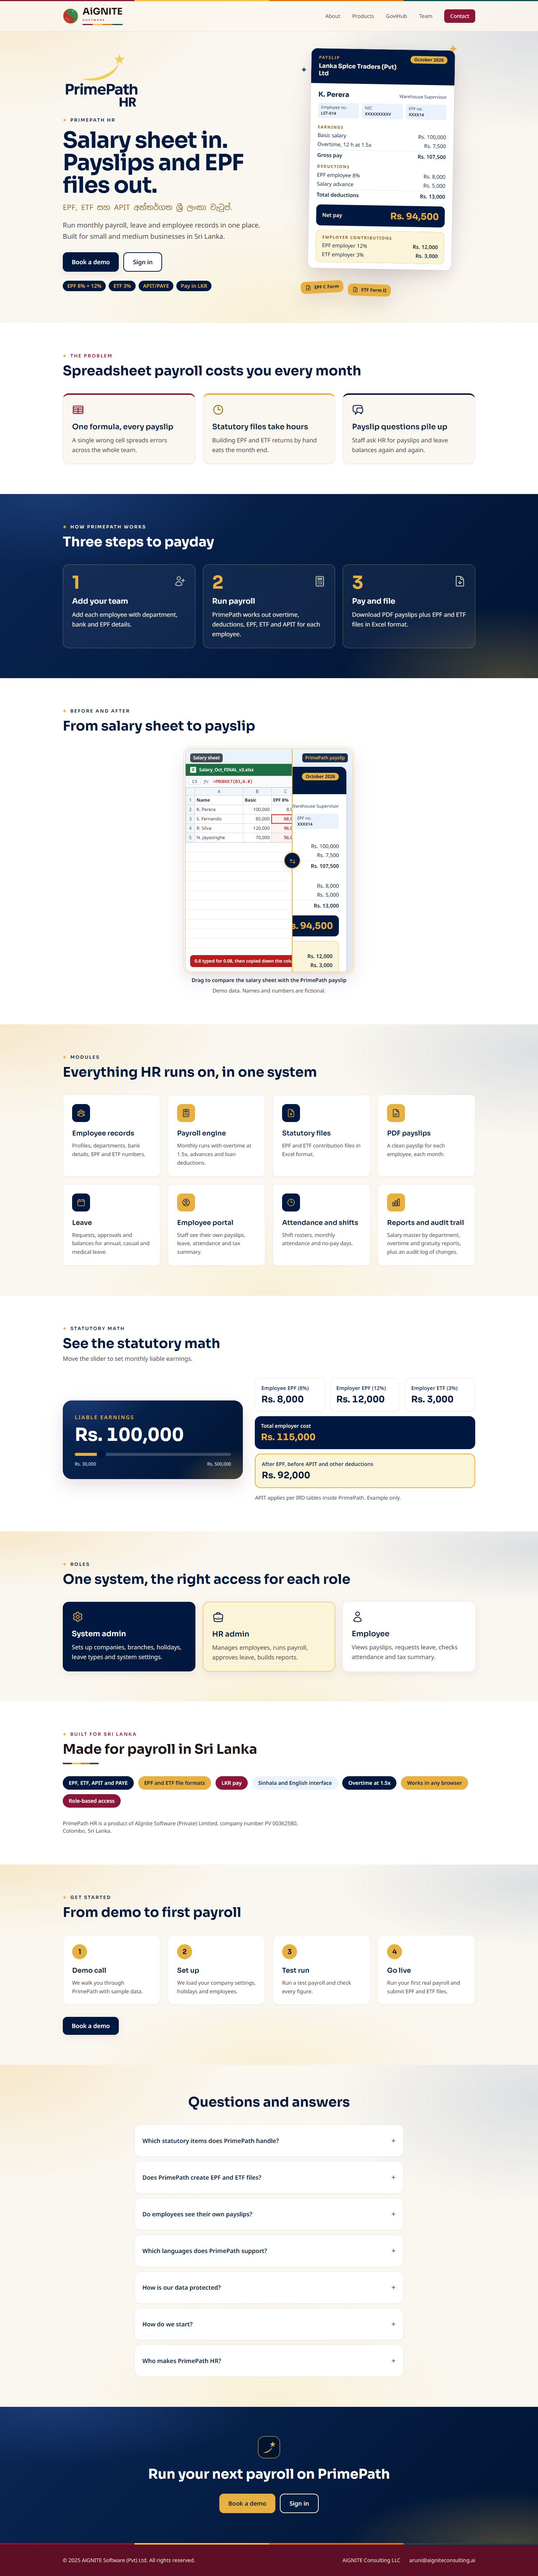
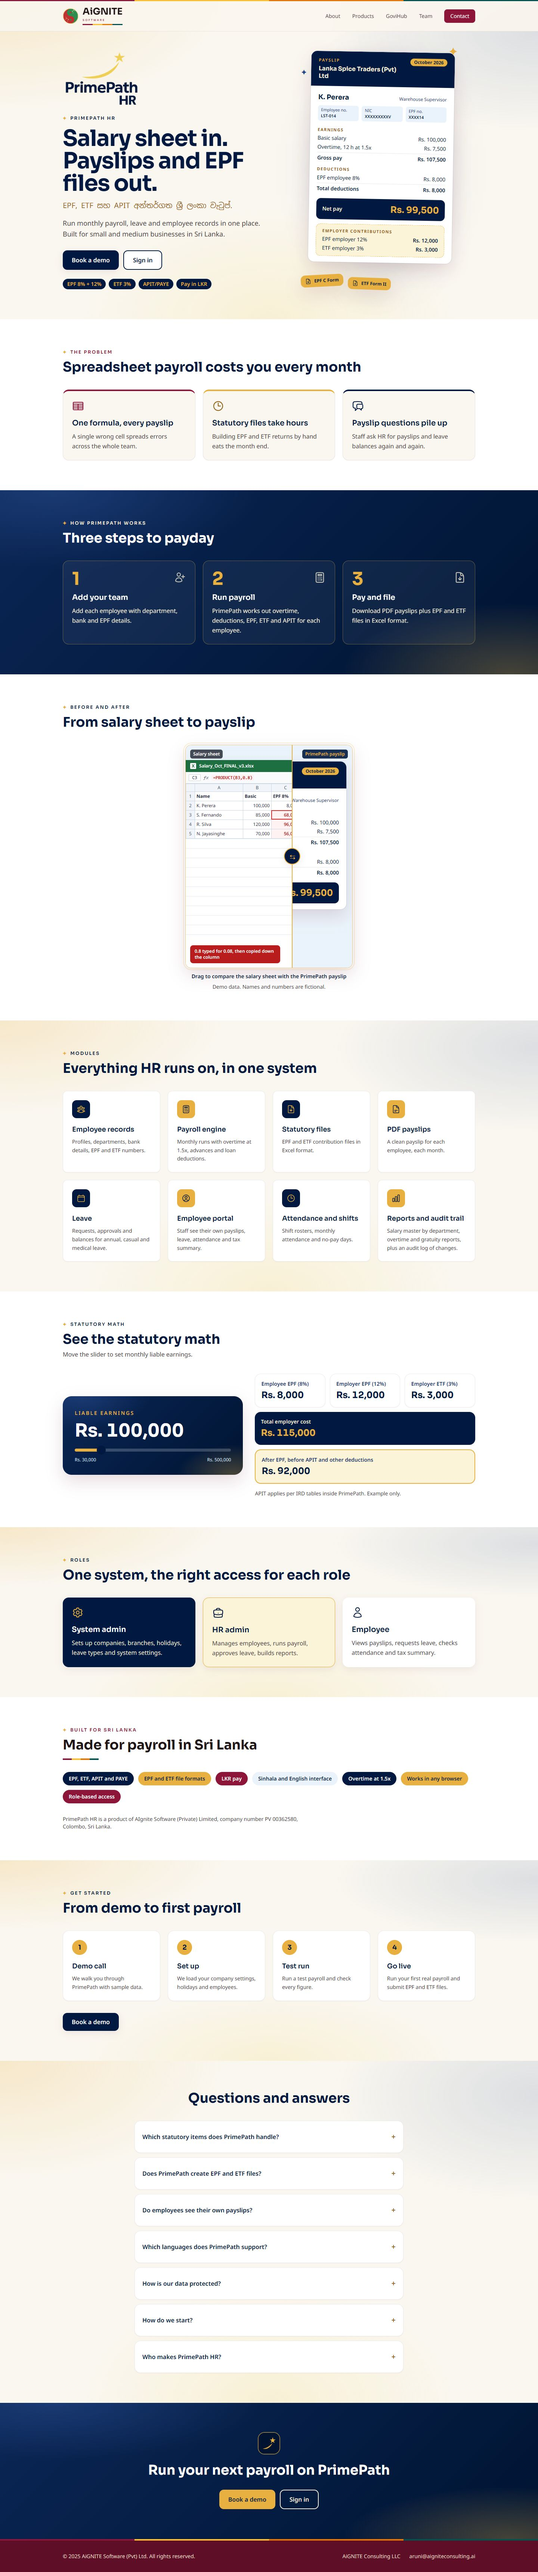
Apply PrimePath review fixes: payslip fits the compare, matched numbers
- Compact payslip and a taller phone frame, so net pay shows in the
  compare slider at 360 px
- Payslip net pay matches the salary sheet row (99,500), OG card redone
- Sheet note stays readable at the slider start
- Calculator results announced to screen readers, fill uses --pp-accent
- Compare slider props require a photo pair or a mock pair

diff --git a/src/components/primepath/PayslipCard.tsx b/src/components/primepath/PayslipCard.tsx
@@ -1,7 +1,8 @@
 import { payslip, rs } from "@/app/products/primepath/content";
 
 // Coded demo payslip (HTML and CSS, not an image). Used in the hero, the compare slider and the OG card.
-export default function PayslipCard({ className = "" }: { className?: string }) {
+// compact drops the ID fields and the employer block so net pay fits the compare frame on phones.
+export default function PayslipCard({ className = "", compact = false }: { className?: string; compact?: boolean }) {
   const gross = payslip.earnings.reduce((s, e) => s + e.amount, 0);
   const totalDeductions = payslip.deductions.reduce((s, d) => s + d.amount, 0);
   const net = gross - totalDeductions;
@@ -21,14 +22,16 @@ export default function PayslipCard({ className = "" }: { className?: string }) 
           <p className="font-heading text-lg font-bold">{payslip.employee}</p>
           <p className="text-xs text-pp-navy-600">{payslip.designation}</p>
         </div>
-        <dl className="mt-2 grid grid-cols-3 gap-2 text-[11px]">
-          {payslip.fields.map((f) => (
-            <div key={f.label} className="rounded-md bg-pp-navy-50 px-2 py-1">
-              <dt className="text-pp-navy-600">{f.label}</dt>
-              <dd className="font-semibold tabular-nums">{f.value}</dd>
-            </div>
-          ))}
-        </dl>
+        {!compact && (
+          <dl className="mt-2 grid grid-cols-3 gap-2 text-[11px]">
+            {payslip.fields.map((f) => (
+              <div key={f.label} className="rounded-md bg-pp-navy-50 px-2 py-1">
+                <dt className="text-pp-navy-600">{f.label}</dt>
+                <dd className="font-semibold tabular-nums">{f.value}</dd>
+              </div>
+            ))}
+          </dl>
+        )}
 
         <p className="mt-4 text-[11px] font-bold uppercase tracking-[0.14em] text-pp-accent-deep">{payslip.earningsTitle}</p>
         <ul className="mt-1 space-y-1 text-sm">
@@ -63,17 +66,19 @@ export default function PayslipCard({ className = "" }: { className?: string }) 
           <span className="font-heading text-2xl font-bold tabular-nums text-pp-accent">{rs(net)}</span>
         </div>
 
-        <div className="mt-3 rounded-xl border border-dashed border-pp-accent bg-pp-accent-soft px-4 py-2.5">
-          <p className="text-[11px] font-bold uppercase tracking-[0.14em] text-pp-accent-deep">{payslip.employerTitle}</p>
-          <ul className="mt-1 space-y-1 text-sm">
-            {payslip.employer.map((e) => (
-              <li key={e.label} className="flex justify-between gap-3">
-                <span>{e.label}</span>
-                <span className="font-semibold tabular-nums">{rs(e.amount)}</span>
-              </li>
-            ))}
-          </ul>
-        </div>
+        {!compact && (
+          <div className="mt-3 rounded-xl border border-dashed border-pp-accent bg-pp-accent-soft px-4 py-2.5">
+            <p className="text-[11px] font-bold uppercase tracking-[0.14em] text-pp-accent-deep">{payslip.employerTitle}</p>
+            <ul className="mt-1 space-y-1 text-sm">
+              {payslip.employer.map((e) => (
+                <li key={e.label} className="flex justify-between gap-3">
+                  <span>{e.label}</span>
+                  <span className="font-semibold tabular-nums">{rs(e.amount)}</span>
+                </li>
+              ))}
+            </ul>
+          </div>
+        )}
       </div>
     </div>
   );

diff --git a/src/components/primepath/StatutoryCalculator.tsx b/src/components/primepath/StatutoryCalculator.tsx
@@ -27,7 +27,7 @@ export default function StatutoryCalculator() {
           value={earnings}
           onChange={(e) => setEarnings(Number(e.target.value))}
           aria-valuetext={rs(earnings)}
-          style={{ background: `linear-gradient(90deg, #E7B041 ${fill}%, rgb(255 255 255 / 0.2) ${fill}%)` }}
+          style={{ background: `linear-gradient(90deg, var(--pp-accent) ${fill}%, rgb(255 255 255 / 0.2) ${fill}%)` }}
           className="mt-6 h-2 w-full cursor-pointer appearance-none rounded-full accent-pp-accent focus:outline-none focus-visible:ring-4 focus-visible:ring-pp-accent/60 [&::-moz-range-thumb]:h-6 [&::-moz-range-thumb]:w-6 [&::-moz-range-thumb]:rounded-full [&::-moz-range-thumb]:border-4 [&::-moz-range-thumb]:border-pp-accent [&::-moz-range-thumb]:bg-pp-primary [&::-webkit-slider-thumb]:h-6 [&::-webkit-slider-thumb]:w-6 [&::-webkit-slider-thumb]:appearance-none [&::-webkit-slider-thumb]:rounded-full [&::-webkit-slider-thumb]:border-4 [&::-webkit-slider-thumb]:border-pp-accent [&::-webkit-slider-thumb]:bg-pp-primary"
         />
         <div className="mt-2 flex justify-between text-xs text-pp-navy-100">
@@ -64,6 +64,10 @@ export default function StatutoryCalculator() {
           })}
         </dl>
         <p className="mt-4 text-sm text-text-muted">{calculator.note}</p>
+        {/* Screen readers hear the five results after each slider move. */}
+        <p aria-live="polite" className="sr-only">
+          {calculator.outputs.map((o) => `${o.label}: ${rs(earnings * o.rate)}`).join(". ")}
+        </p>
       </div>
     </div>
   );

diff --git a/src/app/products/primepath/page.tsx b/src/app/products/primepath/page.tsx
@@ -308,9 +308,9 @@ export default function PrimePathPage() {
                   </div>
                 }
                 afterNode={
-                  <div role="img" aria-label={compare.afterAlt} className="h-full bg-pp-navy-50 px-4 pb-4 pt-12">
+                  <div role="img" aria-label={compare.afterAlt} className="h-full bg-pp-navy-50 px-4 pb-4 pt-11">
                     <div aria-hidden>
-                      <PayslipCard className="shadow-lk-2" />
+                      <PayslipCard compact className="shadow-lk-2" />
                     </div>
                   </div>
                 }
@@ -318,7 +318,7 @@ export default function PrimePathPage() {
                 afterLabel={compare.afterLabel}
                 sliderLabel={compare.sliderLabel}
                 theme={compareTheme}
-                aspect="aspect-[4/5] sm:aspect-[3/4]"
+                aspect="aspect-[3/5] sm:aspect-[3/4]"
                 initial={64}
               />
               <p className="mt-2 text-center text-sm text-text-muted">{compare.caption}</p>

diff --git a/src/components/drapestudio/BeforeAfter.tsx b/src/components/drapestudio/BeforeAfter.tsx
@@ -21,12 +21,12 @@ const dsTheme: CompareTheme = {
   caption: "text-ds-emerald",
 };
 
-type Props = {
-  // Photos (DrapeStudio) or coded mocks (beforeNode / afterNode).
-  before?: Shot;
-  after?: Shot;
-  beforeNode?: ReactNode;
-  afterNode?: ReactNode;
+// Either a photo pair (DrapeStudio) or a pair of coded mocks, never neither.
+type Sides =
+  | { before: Shot; after: Shot; beforeNode?: never; afterNode?: never }
+  | { beforeNode: ReactNode; afterNode: ReactNode; before?: never; after?: never };
+
+type Props = Sides & {
   beforeLabel: string;
   afterLabel: string;
   sliderLabel: string;

diff --git a/src/components/primepath/SalarySheet.tsx b/src/components/primepath/SalarySheet.tsx
@@ -59,7 +59,8 @@ export default function SalarySheet() {
         </tbody>
       </table>
       <div className="flex-1 bg-[linear-gradient(#e2e8f0_1px,transparent_1px)] bg-[length:auto_1.6rem]" />
-      <p className="m-3 rounded-lg bg-red-700 px-3 py-2 text-xs font-semibold text-white">{sheet.note}</p>
+      {/* Kept in the left 58% so the note stays readable at the slider start position. */}
+      <p className="m-3 max-w-[54%] rounded-lg bg-red-700 px-3 py-2 text-xs font-semibold text-white">{sheet.note}</p>
     </div>
   );
 }

diff --git a/src/app/products/primepath/content.ts b/src/app/products/primepath/content.ts
@@ -53,10 +53,8 @@ export const payslip = {
   ],
   grossLabel: "Gross pay",
   deductionsTitle: "Deductions",
-  deductions: [
-    { label: "EPF employee 8%", amount: 8000 },
-    { label: "Salary advance", amount: 5000 },
-  ],
+  // Matches row 2 of the demo salary sheet: net 99,500 on both sides of the compare slider.
+  deductions: [{ label: "EPF employee 8%", amount: 8000 }],
   totalDeductionsLabel: "Total deductions",
   netLabel: "Net pay",
   employerTitle: "Employer contributions",

diff --git a/docs/primepath-page-claims.md b/docs/primepath-page-claims.md
@@ -58,4 +58,5 @@ Run `scripts/check-copy-primepath.ps1`. Nothing on the page names AI, Tamil, pri
 Lanka Spice Traders (Pvt) Ltd, K. Perera, S. Fernando, R. Silva and N. Jayasinghe are fictional. NIC and EPF numbers are masked. Payslip math follows the PrimePath formulas:
 - Overtime is 100,000 / 240 x 1.5 x 12 h = 7,500.
 - EPF is 8% of basic = 8,000.
+- Net pay is 99,500, the same as K. Perera's row in the demo salary sheet.
 - The payslip shows no APIT line.
